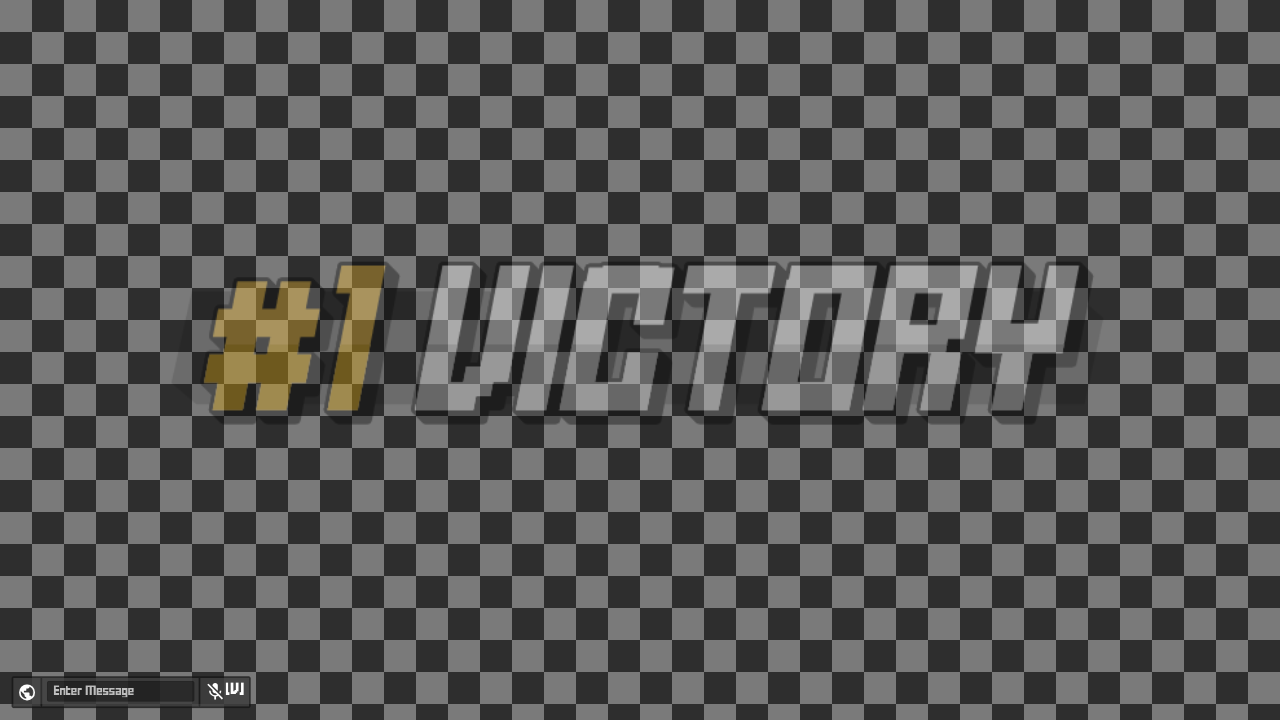
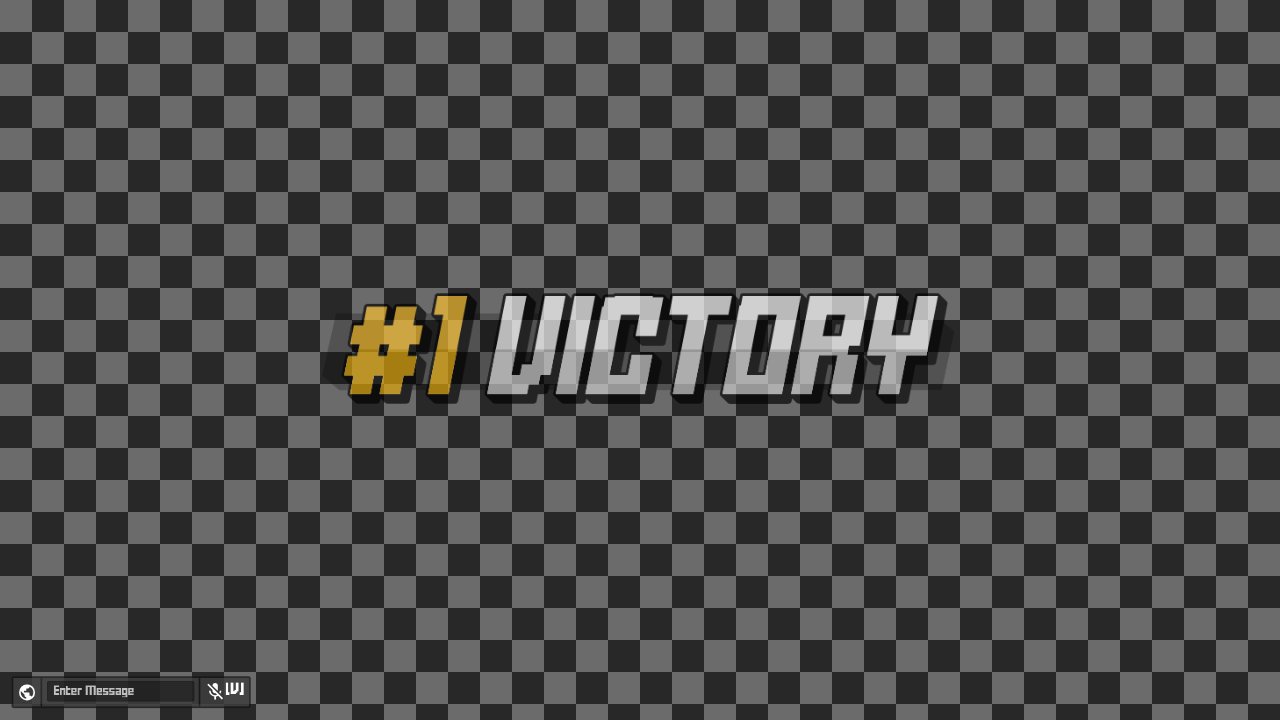
uidiff: v10 sequence origin on the frame that draws the event (kill, hit, end-vic, end-results recaptured), score popup baseline as v10's canvas, hitmarker_death_e2e results check fixed

Changed region(s): [[0.1562, 0.3667, 0.875, 0.6111]]

diff --git a/tools/uidiff/capture-v10-seq.js b/tools/uidiff/capture-v10-seq.js
@@ -22,9 +22,12 @@
 //     the animations already running at the origin to 0 (the infinite menu animations: the native page
 //     starts them at clock 0);
 //   - the origin is the virtual time of the first 16.7 ms step after which `origin` (a page expression)
-//     is true, or the moment `trigger` returned when there is no `origin`: the native side
-//     (client/src/ui/ui_scenario.c anim_origin) uses the same frame quantisation, and uidiff's timing check
-//     allows +-1 frame.
+//     is true, or the moment `trigger` returned when there is no `origin`; `drawnOrigin: true` moves the
+//     latter to the end of the first 16.7 ms step after the trigger: the frame whose rAF draws an event
+//     the game loop paints on the overlay canvas (hit marker, score popup, victory title), as the native
+//     origin frame is the one that processes and draws it (client/src/ui/ui_scenario.c anim_origin kill,
+//     end, applied); a shot right at the trigger shows the DOM changes but not yet the canvas, one frame
+//     behind the native. uidiff's timing check allows +-1 frame.
 // `bg: 'checker'` paints the transparent 3D canvas' place with the checker pattern of the native scenario
 // background "checker" (32 px cells #8a8a8a / #343434, from the top-left corner: checkerPng() and
 // ui_scenario.c checker_pixels() must stay identical), so backdrop-filter / blur show in the references.
@@ -173,7 +176,10 @@ async function runSequence(sq) {
     if (!sq.boot) { await c.eval(ANIM_DRIVER); await c.eval(`window.__knVT.adopt(${!!sq.restartAnims})`); }
     if (sq.trigger) await sq.trigger(c, vc);
     let origin = null;
-    if (!sq.origin) origin = await vc.now();
+    if (!sq.origin) {
+      if (sq.trigger && sq.drawnOrigin) await step(FRAME_MS); // the frame that draws the trigger's event (see the header)
+      origin = await vc.now();
+    }
     const limit = (sq.originTimeout || 15000);
     // until the origin: 60 Hz steps (with boot, the page's own load: virtual time waits for fetches)
     while (origin === null) {
@@ -206,7 +212,7 @@ async function runSequence(sq) {
     }
     const rafCalls = (await c.eval('window.__knRafCalls').catch(() => 0)) - raf0;
     fs.writeFileSync(path.join(dir, 'rects.json'), JSON.stringify(await c.eval(V.RECTS)) + '\n');
-    const meta = { name: sq.name, size: sq.size, background: sq.bg || 'page', times: sq.times, origin: sq.originNote || sq.origin || 'the trigger',
+    const meta = { name: sq.name, size: sq.size, background: sq.bg || 'page', times: sq.times, origin: sq.originNote || sq.origin || (sq.drawnOrigin ? 'the first frame after the trigger' : 'the trigger'),
       restartAnims: !!sq.restartAnims, frames, rafCalls, probe: sq.probe ? { expr: sq.probe, values: probes } : undefined, note: sq.note || '', pageErrors: errors.length, requestsRefused: blocked.length,
       tool: 'tools/uidiff/capture-v10-seq.js' };
     fs.writeFileSync(path.join(dir, 'meta.json'), JSON.stringify(meta, null, 1) + '\n');

diff --git a/tools/uidiff/capture-v10-seq-list.js b/tools/uidiff/capture-v10-seq-list.js
@@ -77,14 +77,14 @@ module.exports = function (seq, V) {
     note: 'Self-kill (what the native console `kill` does): the "You Died" card (.death-ui-bottom-empty, backdrop-filter blur over the checker) with death-ui-moveup / chat-moveup 1.5 s.',
   });
   seq('kill', {
-    bg: 'checker', prepare: withBot, times: [0, 100, 200, 300, 500, 700, 1000, 1500, 2000, 3500, 4000, 4200],
+    bg: 'checker', drawnOrigin: true, prepare: withBot, times: [0, 100, 200, 300, 500, 700, 1000, 1500, 2000, 3500, 4000, 4200],
     trigger: (c) => evalOk(c, `${SG}.players.kill(${BOT}, ${SP}, {})`, 'kill the bot'),
     probe: `killFeed.childNodes.length`, frameJs: V.PIN_TIMER,
     note: 'The local player kills a sandbox bot: the kill feed row (4 s, then gone: 3500 / 4000 / 4200), the score popup and the medal; native: `bot 1` then `kill @bots`.',
   });
   // v10:173750 players.changeHealth(victim, doer, dmg): DO_DAMAGE to the doer (hit marker + damage number)
   seq('hit', {
-    bg: 'checker', prepare: withBot, times: [0, 50, 100, 150, 200, 300, 500, 700, 1000],
+    bg: 'checker', drawnOrigin: true, prepare: withBot, times: [0, 50, 100, 150, 200, 300, 500, 700, 1000],
     trigger: (c) => evalOk(c, `${SG}.players.changeHealth(${BOT}, ${SP}, 40, null, false, {})`, 'damage the bot'),
     frameJs: V.PIN_TIMER,
     note: 'The local player deals 40 damage to a bot (DO_DAMAGE): the hit marker and the damage number over 1 s. The native has no damage command: its scenario injects the hit marker (state.hit) at the origin; damage numbers are not injectable there yet.',
@@ -111,14 +111,14 @@ module.exports = function (seq, V) {
   // ---- E. end of match
 
   seq('end-vic', {
-    bg: 'checker', prepare: inGame, times: range(0, 3000, 100),
+    bg: 'checker', drawnOrigin: true, prepare: inGame, times: range(0, 3000, 100),
     trigger: (c) => evalOk(c, `${SG}.endGame()`, 'endGame'),
     frameJs: V.PIN_TIMER,
     note: 'The sandbox game ends (the "end" packet): the victory title on the overlay canvas and #endUI, every 100 ms for 3 s. Native: console `end` (3 s timer), origin at the end packet.',
   });
   // results: v10 builds them (_72911, GUI.endScreen.init) only for a connected socket (v10:219684)
   seq('end-results', {
-    bg: 'checker', prepare: inGame, times: [0, 2000, 4000, 5000, 5500, 6000, 7000],
+    bg: 'checker', drawnOrigin: true, prepare: inGame, times: [0, 2000, 4000, 5000, 5500, 6000, 7000],
     trigger: (c) => evalOk(c, `window.__knScope().sock.connected = true; ${SG}.endGame()`, 'endGame'),
     frameJs: V.PIN_TIMER,
     note: 'The end animation, then the results (tabs, Combat Earnings) with the socket marked connected.',

diff --git a/server/tests/hitmarker_death_e2e.py b/server/tests/hitmarker_death_e2e.py
@@ -15,6 +15,7 @@ NET_PACKET_HITs through the client's event handler (input script `nethit`):
   5. the end screen (`end`): a hit that lands during the end animation or on the results (the player
      is still active then) shows no marker: v7's showEndScreen -> hideUI hides the overlay canvas the
      marker is drawn on; here #inGameUI, which holds #knHitmarker, is down for the whole end screen
+     (on the results only magenta the hit adds counts: the guest signup banner has its own)
 Prints PASS/FAIL lines; exit code 0 only when everything passed. Needs a headless GL device
 (KRUNKNATIVE_HEADLESS=1: EGL; KRUNKNATIVE_EGL_DEVICE picks it).
 """
@@ -28,7 +29,7 @@ import sys
 import tempfile
 
 sys.path.insert(0, os.path.dirname(os.path.abspath(__file__)))
-from kn_png import magenta_count  # noqa: E402
+from kn_png import is_magenta, magenta_count, read_rgba  # noqa: E402
 
 BUILD = sys.argv[1] if len(sys.argv) > 1 else "cmake-build-debug"
 CACHE = os.path.expanduser("~/.cache")
@@ -55,6 +56,28 @@ def frames(prefix):
     return sorted(glob.glob(os.path.join(WORK, prefix + "_*.png")))
 
 
+def magenta_new(path, base, box):
+    """magenta pixels in the box of `path` that are not magenta in `base` (the same view before the
+    hit): the results page has magenta of its own (the guest signup banner's purple card sits in the
+    box), only what the hit adds counts; -1 when a file cannot be read"""
+    try:
+        w, h, ch, rows = read_rgba(path)
+        bw, bh, bch, brows = read_rgba(base)
+    except (OSError, KeyError, ValueError):
+        return -1
+    if (w, h) != (bw, bh):
+        return -1
+    x0, y0, x1, y1 = box
+    hits = 0
+    for y in range(max(y0, 0), min(y1, h)):
+        row, brow = rows[y], brows[y]
+        for x in range(max(x0, 0), min(x1, w)):
+            if is_magenta(row[x * ch], row[x * ch + 1], row[x * ch + 2]) and \
+                    not is_magenta(brow[x * bch], brow[x * bch + 1], brow[x * bch + 2]):
+                hits += 1
+    return hits
+
+
 def main():
     cfg = os.path.join(WORK, "cfg", "krunknative")
     os.makedirs(cfg)
@@ -68,7 +91,7 @@ def main():
                 f"3000 vis @dead2 knHitmarker\n3000 frames {WORK}/later 1\n"
                 f"3100 respawn\n9000 state\n9000 nethit 0\n9016 vis @again knHitmarker\n9016 frames {WORK}/again 1\n"
                 f"9500 con end\n13500 nethit 1\n13516 vis @endanim knHitmarker endUI\n13516 frames {WORK}/endanim 3\n"
-                f"20000 vis @end endUI\n20000 state\n20100 nethit 1\n20116 vis @endhit knHitmarker\n"
+                f"20000 vis @end endUI\n20000 state\n20050 frames {WORK}/endpre 1\n20100 nethit 1\n20116 vis @endhit knHitmarker\n"
                 f"20116 frames {WORK}/endhit 3\n21000 vis @endlater knHitmarker\n21100 quit\n")
     log = os.path.join(WORK, "client.log")
     env = {k: v for k, v in os.environ.items() if k not in ("DISPLAY", "WAYLAND_DISPLAY", "KRUNKNATIVE_BRAIN_URL")}
@@ -107,9 +130,13 @@ def main():
     ended = [l for l in lines if "[input_script] state t=20" in l]
     check("the end screen is up (`end`)", any(re.search(r"@end endUI=1", l) for l in lines) and ended and "ended=1" in ended[0],
           f"{ended[:1]}")
+    endpre = frames("endpre")
     for label, prefix, what in (("endanim", "endanim", "during the end animation"), ("endhit", "endhit", "on the results")):
         shots = frames(prefix)
-        counts = [magenta_count(s, CENTRE) for s in shots]
+        if label == "endhit": # the results page is static: compare with its frame before the hit
+            counts = [magenta_new(s, endpre[0], CENTRE) if endpre else -1 for s in shots]
+        else:
+            counts = [magenta_count(s, CENTRE) for s in shots]
         later = vis(lines, "endlater") if label == "endhit" else "0"
         check(f"end screen: no marker (a hit that lands {what})",
               vis(lines, label) == "0" and later == "0" and shots and all(c == 0 for c in counts) and

diff --git a/client/src/ui/hud_popups.c b/client/src/ui/hud_popups.c
@@ -145,6 +145,11 @@ static HtmlElem popup_text_el(const HtmlElem parent) {
     html_dom_set_style(el, "font-family", "gamefont");
     html_dom_set_style(el, "line-height", "1");
     html_dom_set_style(el, "transform", "translate(-50%, -50%)"); // textAlign center, textBaseline middle
+    // textBaseline "middle" is the middle of the em box Chromium normalizes from the font's ascent +
+    // descent: GameFont (FrVrKrunkerBold2.ttf, upm 1000, ascent 1125, descent 250) puts the baseline
+    // (1125 - 250) / 1375 / 2 = 0.3182 em below the anchor. A line-height: 1 box centres the 1.375 em
+    // content area instead, baseline (1.125 - 0.25) / 2 = 0.4375 em below: up by the difference.
+    html_dom_set_style(el, "margin-top", "-0.1193em");
     html_dom_append(parent, el);
     return el;
 }

diff --git a/tools/uidiff/README.md b/tools/uidiff/README.md
@@ -272,7 +272,12 @@ diffs it against the reference frame captured at the same time after the same ev
   (the first multiple of 1.6 s after that: every infinite menu animation at its start), `boot`
   (clock 0), `init` (the first INIT), `spawn`, `death` (the local player's), `kill` (its next
   kill), `end` (the match end), `selector:<css>` (the first frame laying out a match: a page
-  timer or packet). Frames land exactly on origin + t on the 60 Hz virtual clock.
+  timer or packet). Frames land exactly on origin + t on the 60 Hz virtual clock. Every native
+  origin is the frame that processes the event and draws it; on the v10 side a sequence with a
+  `trigger`, no `origin` expression and `drawnOrigin: true` (kill, hit, end-vic, end-results) starts at
+  the end of the first 16.7 ms step after the trigger (the rAF that draws the overlay canvas: hit
+  marker, score popup, victory title), not at the trigger itself, whose screenshot shows the DOM
+  changes but not yet the canvas.
 - `background: "checker"` (`checker[:cell[:#light:#dark]]`, default 32 px `#8a8a8a` / `#343434`)
   replaces the hidden 3D view with a texture, so `backdrop-filter` and `filter: blur()` show; the
   v10 capture paints the same pixels (`capture-v10-seq.js` `checkerPng`).
@@ -319,8 +324,10 @@ spin reply), `store-tooltip` (the signed-in store list).
 
 ## Scenarios
 
-The JSON files are generated: edit `tools/uidiff/gen_scenarios.py` and run
-`python3 -I tools/uidiff/gen_scenarios.py`. Region rects come from each reference's
+The JSON files are generated. The v10 in-game ones (`ingame-*`) come from
+`python3 -I tools/uidiff/gen_v10_ingame.py`, which takes its states from `gen_scenarios.py`'s table
+and applies v10's values (edit both there); `gen_scenarios.py` run on its own writes the retired v7
+set and deletes the scenarios it does not know (history, do not run it). Region rects come from each reference's
 `<name>.rects.json` (viewport rects of the page's own elements, written by `capture-v7.js`),
 measured on the PNG only where no element exists (the death screen rows).
 
